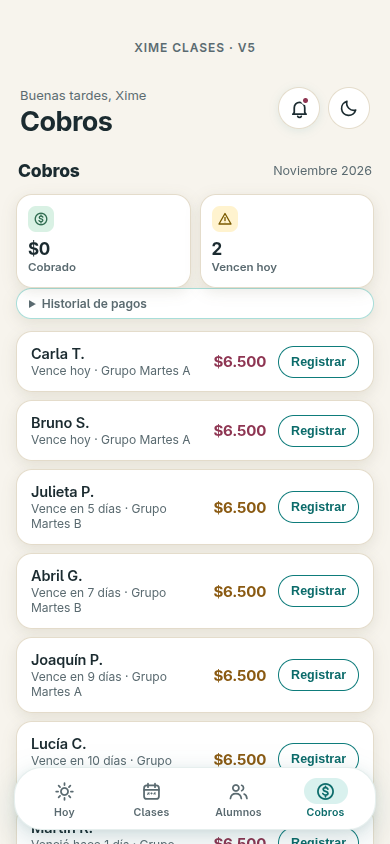
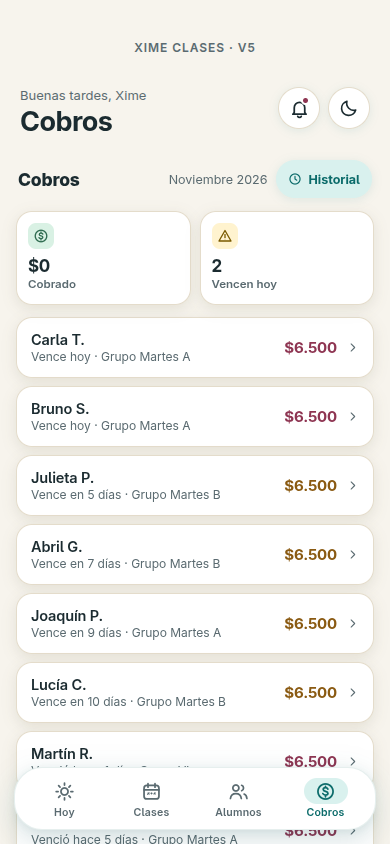
fix(v5): rehacer filas y paneles de Cobros

diff --git a/v5-diseno/propuesta.ts b/v5-diseno/propuesta.ts
@@ -636,10 +636,15 @@ $('#buscar-alumno')?.addEventListener('input', (e) => {
 const formatoUYU = new Intl.NumberFormat('es-UY', { useGrouping: 'always' });
 const uyu = (monto: number) => `$${formatoUYU.format(monto)}`;
 const listaCobros = document.querySelector<HTMLUListElement>('#lista-cobros')!;
-const historialCobros = document.querySelector<HTMLUListElement>('#historial-cobros')!;
+const botonHistorial = document.querySelector<HTMLButtonElement>('#abrir-historial')!;
 const campana = document.querySelector<HTMLButtonElement>('.campana')!;
 const verCobros = (pagos = repo.listarPagos()) => resumenCobros(alumnosCobrosDemo, pagos, hoyLocal(reloj.ahora()));
 type FilaCobro = ReturnType<typeof verCobros>['filas'][number];
+
+function fechaBreve(fecha: string) {
+  const { d, m } = parseFecha(fecha);
+  return `${d}/${m}`;
+}
 
 function textoVence(dias: number) {
   if (dias === 0) return 'Vence hoy';
@@ -667,41 +672,55 @@ function pintarCobros() {
   campana.querySelector<HTMLElement>('.campana-punto')!.hidden = avisos === 0;
 
   listaCobros.innerHTML = r.filas.map((f, indice) => `<li>
-    <div><p class="al-nombre">${esc(f.alumno.nombre)}</p>
-    <p class="al-sub">${f.pago ? `Pagado el ${esc(f.pago.fecha)}` : textoVence(f.dias)} · ${esc(f.alumno.grupo)}</p></div>
-    <strong class="monto ${f.pago ? 'monto-ok' : f.dias > 0 ? 'monto-suave' : ''}">${uyu(f.pago?.montoUYU ?? f.alumno.montoUYU)}</strong>
-    <button type="button" class="marcar" data-fila="${indice}" aria-label="${f.pago ? 'Anular pago' : 'Registrar pago'} de ${esc(f.alumno.nombre)}, ${f.periodo}">${f.pago ? 'Anular' : 'Registrar'}</button>
+    <button type="button" class="cobro-fila" data-fila="${indice}" aria-haspopup="dialog"
+      aria-label="${f.pago ? 'Ver pago' : 'Registrar pago'} de ${esc(f.alumno.nombre)}, ${f.periodo}">
+      <span><span class="al-nombre">${esc(f.alumno.nombre)}</span>
+      <span class="al-sub">${f.pago ? `Pagado el ${fechaBreve(f.pago.fecha)}` : textoVence(f.dias)} · ${esc(f.alumno.grupo)}</span></span>
+      <strong class="monto ${f.pago ? 'monto-ok' : f.dias > 0 ? 'monto-suave' : ''}">${f.pago ? 'Pagado' : uyu(f.alumno.montoUYU)}</strong>
+      <svg class="ico" width="13" height="13" aria-hidden="true"><use href="#i-der"/></svg>
+    </button>
   </li>`).join('');
   listaCobros.querySelectorAll<HTMLButtonElement>('[data-fila]').forEach((b, i) => {
     const fila = r.filas[i];
     b.addEventListener('click', () => abrirPago(fila.alumno.nombre, fila.periodo, fila.alumno.montoUYU, b, fila.pago, fila));
   });
-
-  const visibles = new Set(r.filas.map((f) => f.pago?.id));
-  const historial = pagos.filter((p) => !visibles.has(p.id)).reverse();
-  historialCobros.innerHTML = historial.length ? historial.map((p) => {
-    const nombre = alumnosCobrosDemo.find((a) => a.id === p.alumnoId)?.nombre ?? p.alumnoId;
-    const estado = p.anulado ? `Anulado el ${esc(p.anulado.fecha)} por ${esc(p.anulado.quien)} · ${esc(p.anulado.motivo)}` : 'Pagado';
-    return `<li><div><p class="al-nombre">${esc(nombre)} · ${uyu(p.montoUYU)}</p>
-      <p class="al-sub">${esc(p.periodo)} · Registrado el ${esc(p.fecha)} por ${esc(p.quien)}</p>
-      <p class="al-sub">${estado}</p></div>${p.anulado ? '' : `<button class="marcar" type="button" data-pago="${esc(p.id)}" aria-label="Anular pago de ${esc(nombre)}, ${esc(p.periodo)}">Anular</button>`}</li>`;
-  }).join('') : '<li><p class="al-sub">Sin otros pagos registrados</p></li>';
-  historialCobros.querySelectorAll<HTMLButtonElement>('[data-pago]').forEach((b) => b.addEventListener('click', () => {
-    const pago = historial.find((p) => p.id === b.dataset.pago)!;
-    abrirPago(alumnosCobrosDemo.find((a) => a.id === pago.alumnoId)?.nombre ?? pago.alumnoId, pago.periodo, pago.montoUYU, b, pago);
-  }));
 }
 
-function abrirDialogoCobros(titulo: string, contenido: string, origen: HTMLElement) {
+function nombrePago(pago: Pago) {
+  return alumnosCobrosDemo.find((a) => a.id === pago.alumnoId)?.nombre ?? pago.alumnoId;
+}
+
+botonHistorial.addEventListener('click', () => {
+  const pagos = [...repo.listarPagos()].reverse();
+  const dialogo = abrirDialogoCobros('Historial de pagos', 'Cobros', 'reloj', pagos.length ? `<ul class="cobros-panel-lista">${pagos.map((p, i) => `<li>
+    <div><p class="al-nombre">${esc(nombrePago(p))}</p><p class="al-sub">${esc(p.periodo)} · Registrado el ${esc(p.fecha)} por ${esc(p.quien)}</p>
+      ${p.anulado ? `<p class="al-sub">Anulado el ${esc(p.anulado.fecha)} por ${esc(p.anulado.quien)} · ${esc(p.anulado.motivo)}</p>` : ''}</div>
+    <div class="cobros-panel-dato"><strong>${uyu(p.montoUYU)}</strong>
+      ${p.anulado ? '<span class="al-sub">Anulado</span>' : `<button type="button" class="cobros-link" data-pago="${i}" aria-label="Ver pago de ${esc(nombrePago(p))}, ${esc(p.periodo)}">Ver pago</button>`}</div>
+  </li>`).join('')}</ul>` : '<p class="cobros-panel-nota">Todavía no registraste pagos.</p>', botonHistorial);
+  dialogo.querySelectorAll<HTMLButtonElement>('[data-pago]').forEach((b) => {
+    const pago = pagos[Number(b.dataset.pago)];
+    b.addEventListener('click', () => {
+      dialogo.close();
+      dialogo.remove();
+      abrirPago(nombrePago(pago), pago.periodo, pago.montoUYU, botonHistorial, pago);
+    });
+  });
+});
+
+function abrirDialogoCobros(titulo: string, contexto: string, icono: string, contenido: string, origen: HTMLElement) {
   const dialogo = document.createElement('dialog');
-  dialogo.className = 'sheet';
-  // Neutraliza la caja del navegador; el color de fondo, radio y animación los aporta .sheet.
-  dialogo.style.cssText = 'position:fixed;inset:auto 0 0;width:100%;max-width:min(390px,100%);margin:0 auto;border-inline:0;border-bottom:0;color:inherit';
-  dialogo.setAttribute('aria-label', titulo);
-  dialogo.innerHTML = `<div class="sheet-head"><h3>${titulo}</h3>
-    <button type="button" class="sheet-cerrar" aria-label="Cerrar"><svg class="ico" width="18" height="18"><use href="#i-mas2"/></svg></button></div>${contenido}`;
+  dialogo.className = 'sheet cobros-panel';
+  dialogo.setAttribute('aria-labelledby', 'cobros-panel-titulo');
+  dialogo.innerHTML = `<div class="sheet-head cobros-panel-head">
+    <span class="cobros-panel-icono"><svg class="ico" width="21" height="21" aria-hidden="true"><use href="#i-${icono}"/></svg></span>
+    <div><p class="sheet-eyebrow">${esc(contexto)}</p><h3 id="cobros-panel-titulo">${esc(titulo)}</h3></div>
+    <button type="button" class="sheet-cerrar" aria-label="Cerrar" autofocus><svg class="ico" width="18" height="18" aria-hidden="true"><use href="#i-mas2"/></svg></button></div>${contenido}`;
   dialogo.querySelector('.sheet-cerrar')!.addEventListener('click', () => dialogo.close());
-  dialogo.addEventListener('close', () => { dialogo.remove(); if (origen.isConnected) origen.focus(); });
+  dialogo.addEventListener('close', () => {
+    dialogo.remove();
+    if (!document.querySelector('.cobros-panel[open]') && origen.isConnected) origen.focus();
+  });
   $('.cel')!.appendChild(dialogo);
   dialogo.showModal();
   return dialogo;
@@ -709,12 +728,15 @@ function abrirDialogoCobros(titulo: string, contenido: string, origen: HTMLEleme
 
 function abrirPago(nombre: string, periodo: string, monto: number, origen: HTMLButtonElement, pago?: Pago, fila?: FilaCobro) {
   const accion = pago ? 'Anular pago' : 'Registrar pago';
-  const dialogo = abrirDialogoCobros(accion, `<p class="sheet-clase"><strong>${esc(nombre)}</strong> · ${esc(periodo)} · ${uyu(pago?.montoUYU ?? monto)} UYU</p>
-    ${pago ? `<p class="sheet-clase">Registrado el ${esc(pago.fecha)} por ${esc(pago.quien)}. La anulación queda en el historial.</p>` : '<p class="sheet-clase">Confirmá que ya recibiste el pago. La app no mueve dinero.</p>'}
+  const mes = etiquetaMes(`${periodo}-01`);
+  const dialogo = abrirDialogoCobros(accion, 'Mensualidad', pago ? 'alerta' : 'cobros', `<div class="cobros-panel-resumen">
+    <div><p class="al-nombre">${esc(nombre)}</p><p class="al-sub">${esc(mes)}</p></div>
+    <div class="cobros-panel-dato"><strong>${uyu(pago?.montoUYU ?? monto)}</strong><span class="al-sub">UYU</span></div></div>
+    <p class="cobros-panel-nota">${pago ? `Registrado el ${esc(pago.fecha)} por ${esc(pago.quien)}. La anulación queda en el historial.` : 'Confirmá que ya recibiste el pago. La app no mueve dinero.'}</p>
     <form>${pago ? '<label class="campo"><span>Motivo de anulación</span><input name="motivo" required maxlength="160"></label>' : ''}
-      <p class="sheet-clase" role="alert"></p>
+      <p class="cobros-panel-error" role="alert"></p>
       <div class="sheet-acciones"><button type="button" class="btn-secundario">Volver</button>
-      <button type="submit" class="btn-primario">${pago ? 'Confirmar anulación' : 'Confirmar pago'}</button></div>
+      <button type="submit" class="btn-primario${pago ? ' cobros-anular' : ''}">${pago ? 'Confirmar anulación' : 'Confirmar pago'}</button></div>
     </form>`, origen);
   const form = dialogo.querySelector('form')!;
   form.querySelector('.btn-secundario')!.addEventListener('click', () => dialogo.close());
@@ -734,16 +756,21 @@ function abrirPago(nombre: string, periodo: string, monto: number, origen: HTMLB
     dialogo.close();
     pintarCobros();
     if (origen.dataset.fila) listaCobros.querySelector<HTMLButtonElement>(`[data-fila="${origen.dataset.fila}"]`)?.focus();
-    else document.querySelector<HTMLElement>('#detalle-cobros > summary')?.focus();
+    else botonHistorial.focus();
   });
 }
 
 campana.addEventListener('click', () => {
   const { avisos } = verCobros();
-  abrirDialogoCobros('Avisos de cobro', avisos.length ? `<ul class="lista-cobros">${avisos.map((f) => `<li>
-    <div><p class="al-nombre">${esc(f.alumno.nombre)}</p><p class="al-sub">${textoVence(f.dias)} · ${esc(f.alumno.grupo)}</p></div>
-    <strong class="monto ${f.dias > 0 ? 'monto-suave' : ''}">${uyu(f.alumno.montoUYU)}</strong></li>`).join('')}</ul>`
-    : '<p class="sheet-clase">No hay avisos de vencimientos.</p>', campana);
+  abrirDialogoCobros('Avisos de cobro', 'Mensualidades', 'campana', avisos.length ? `<p class="cobros-panel-nota">Mensualidades sin pagar que vencen hoy o en los próximos 7 días.</p>
+    <ul class="cobros-panel-lista">${avisos.map((f) => `<li>
+    <div><p class="al-nombre">${esc(f.alumno.nombre)}</p><p class="al-sub">${esc(f.alumno.grupo)}</p></div>
+    <span class="cobros-aviso${f.dias === 0 ? ' cobros-aviso-hoy' : ''}">${textoVence(f.dias)}</span></li>`).join('')}</ul>
+    <div class="cobros-panel-pie"><button class="btn-secundario" type="button" data-ver-cobros>Ver Cobros</button></div>`
+    : '<p class="cobros-panel-nota">No hay avisos de vencimientos.</p>', campana).querySelector('[data-ver-cobros]')?.addEventListener('click', (e) => {
+      (e.currentTarget as HTMLElement).closest('dialog')?.close();
+      irA('v-cobros');
+    });
 });
 
 /* ------------------------------------------------------------- navegación */
@@ -780,7 +807,7 @@ tabs.forEach((t) => t.addEventListener('click', (e) => {
   irA((t.getAttribute('href') as string).slice(1));
 }));
 
-$$('.link-suave').forEach((a) => a.addEventListener('click', (e) => {
+$$('a.link-suave').forEach((a) => a.addEventListener('click', (e) => {
   e.preventDefault();
   irA((a.getAttribute('href') as string).slice(1));
 }));

diff --git a/v5-diseno/propuesta.css b/v5-diseno/propuesta.css
@@ -432,6 +432,55 @@ html::-webkit-scrollbar, body::-webkit-scrollbar { display: none; width: 0; }
 .monto-suave { color: var(--ambar); }
 .monto-ok { color: var(--verde); font-size: 13px; background: var(--verde-tinte); padding: 5px 10px; border-radius: 999px; }
 
+/* Cobros: la fila completa abre el detalle, sin un botón repetido por alumno. */
+.cobros-contexto { display: flex; align-items: center; gap: 9px; }
+#abrir-historial { cursor: pointer; font-family: inherit; min-height: 38px; background: var(--tq-100); }
+#abrir-historial:hover { background: var(--tq-200); }
+#lista-cobros > li { padding: 0; }
+.cobro-fila {
+  display: flex; align-items: center; gap: 9px; width: 100%; min-width: 0;
+  padding: 13px 14px; border: 0; border-radius: inherit; background: transparent;
+  color: inherit; text-align: left; font: inherit; cursor: pointer;
+}
+.cobro-fila > span { flex: 1; min-width: 0; }
+.cobro-fila .al-nombre, .cobro-fila .al-sub { display: block; }
+.cobro-fila .ico { flex: none; color: var(--tinta-2); }
+.cobro-fila .monto { white-space: nowrap; }
+.cobro-fila:focus-visible { outline: 2px solid var(--tq-600); outline-offset: 2px; }
+[data-tema="oscuro"] .cobro-fila .monto { color: var(--tinta); }
+
+/* Mismo sheet v5, con el comportamiento nativo de un diálogo modal. */
+.sheet.cobros-panel {
+  position: fixed; inset: auto 0 0; width: 100%; max-width: 390px;
+  margin: 0 auto; border-inline: 0; border-bottom: 0; color: var(--tinta);
+  padding-bottom: calc(20px + env(safe-area-inset-bottom));
+}
+.cobros-panel::backdrop { background: rgb(14 27 30 / 42%); }
+.sheet-head.cobros-panel-head { align-items: center; }
+.cobros-panel-head > div { flex: 1; }
+.cobros-panel-icono {
+  display: grid; place-items: center; flex: none; width: 42px; height: 42px;
+  border-radius: var(--r-chico); color: var(--tq-700); background: var(--tq-100);
+}
+.cobros-panel-resumen, .cobros-panel-lista > li { display: flex; align-items: center; justify-content: space-between; gap: 10px; }
+.cobros-panel-resumen {
+  margin-top: 16px; padding: 12px 14px; border-radius: var(--r-med); border: 1px solid var(--linea); background: var(--bg);
+}
+.cobros-panel-resumen > div:first-child, .cobros-panel-lista > li > div:first-child { min-width: 0; overflow-wrap: anywhere; }
+.cobros-panel-dato { text-align: right; white-space: nowrap; }
+.cobros-panel-dato > .al-sub { display: block; }
+.cobros-panel-nota, .cobros-panel-error:not(:empty) { margin-top: 12px; color: var(--tinta-2); font-size: 13px; }
+.cobros-panel-lista { list-style: none; margin-top: 12px; }
+.cobros-panel-lista > li { border-top: 1px solid var(--linea); padding: 10px 0; }
+.cobros-panel-pie { margin-top: 12px; text-align: right; }
+.cobros-link {
+  border: 0; background: transparent; color: var(--tq-700); padding: 5px 0;
+  font: inherit; font-size: 12px; font-weight: 700; text-decoration: underline; cursor: pointer;
+}
+.cobros-aviso { flex: none; border-radius: 999px; background: var(--bg); color: var(--tinta-2); padding: 5px 9px; font-size: 12px; }
+.cobros-aviso-hoy { background: var(--ambar-suave-tinte); color: var(--tinta); font-weight: 700; }
+.cobros-panel .btn-primario:not(.cobros-anular) { background: var(--tq-700); color: var(--bg-alt); box-shadow: var(--sombra); }
+
 /* ---------- Barra de pestañas (nueva: 4 destinos) ---------- */
 /* Ronda 2 (c): barra inferior como tarjeta/cápsula flotante, siempre fija y visible.
    position:fixed se mantiene para que nunca se oculte al scrollear; se recupera

diff --git a/v5-diseno/index.html b/v5-diseno/index.html
@@ -214,7 +214,12 @@
     <section id="v-cobros" class="vista">
       <div class="agenda-titulo">
         <h2>Cobros</h2>
-        <span class="conteo"></span>
+        <div class="cobros-contexto">
+          <span class="conteo"></span>
+          <button type="button" class="link-suave" id="abrir-historial" aria-haspopup="dialog">
+            <svg class="ico" width="14" height="14" aria-hidden="true"><use href="#i-reloj"/></svg>Historial
+          </button>
+        </div>
       </div>
       <div class="kpis kpis-cobros">
         <article class="kpi kpi-cobrado">
@@ -228,10 +233,6 @@
           <p class="kpi-titulo">Vencen hoy</p>
         </article>
       </div>
-      <details id="detalle-cobros">
-        <summary class="f-chip">Historial de pagos</summary>
-        <ul class="lista-cobros" id="historial-cobros"></ul>
-      </details>
       <ul class="lista-cobros" id="lista-cobros"></ul>
     </section>
   </main>

diff --git a/Clases-Reina.md b/Clases-Reina.md
@@ -29,3 +29,5 @@ Sin autorización aplicable, no integrar, publicar ni desplegar. Un commit/compi
 ## v5 · Pieza B (20/11/2026)
 
 `v5-diseno/src/cobros.ts` deriva vencimientos y KPIs de los alumnos demo y de los pagos activos. Registrar congela monto, fecha local y actor; anular conserva el original y agrega fecha, actor y motivo. Si el navegador no permite persistir, la UI no confirma la operación. La campana usa el umbral de 7 días por defecto; la función admite 10 o solo hoy. Convención demo: `periodo` es el mes del último día cubierto; Cobros muestra el mes actual, próximos avisos e historial de pagos, no calcula arrastre de deuda ni el reinicio por primera clase tras pagar vencido. El actor local `dueño` no equivale a identidad autenticada. Sin procesador ni datos personales reales.
+
+Rediseño pedido por Nico: toda la fila abre el panel, sin botones repetidos; historial al lado del mes; paneles de registro, anulación y campana con componentes y tokens v5, sin cambios globales. Capturas de la revisión en `v5-diseno/v5-cobros-b-*.png`.
